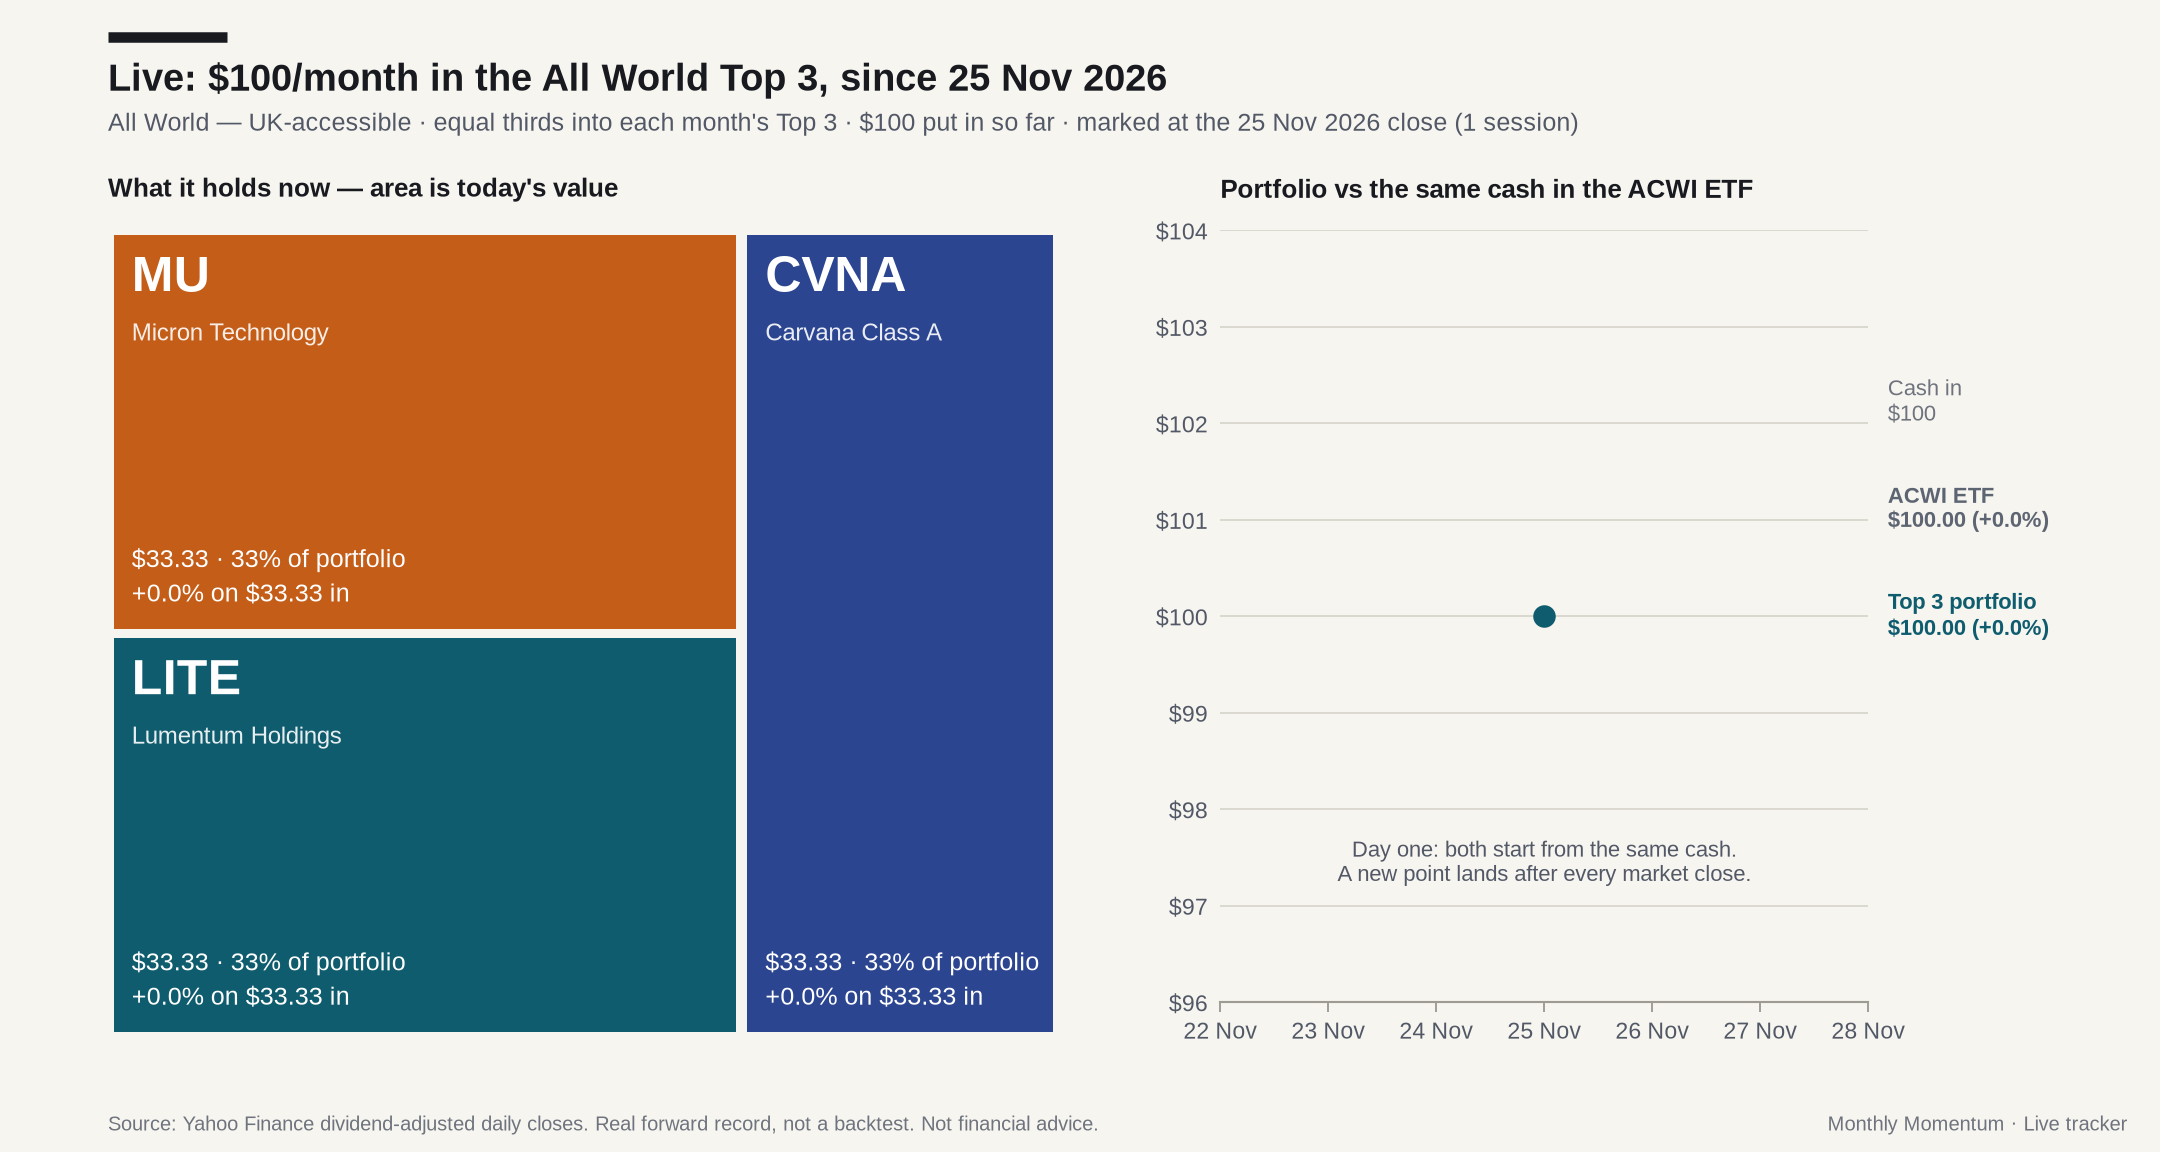
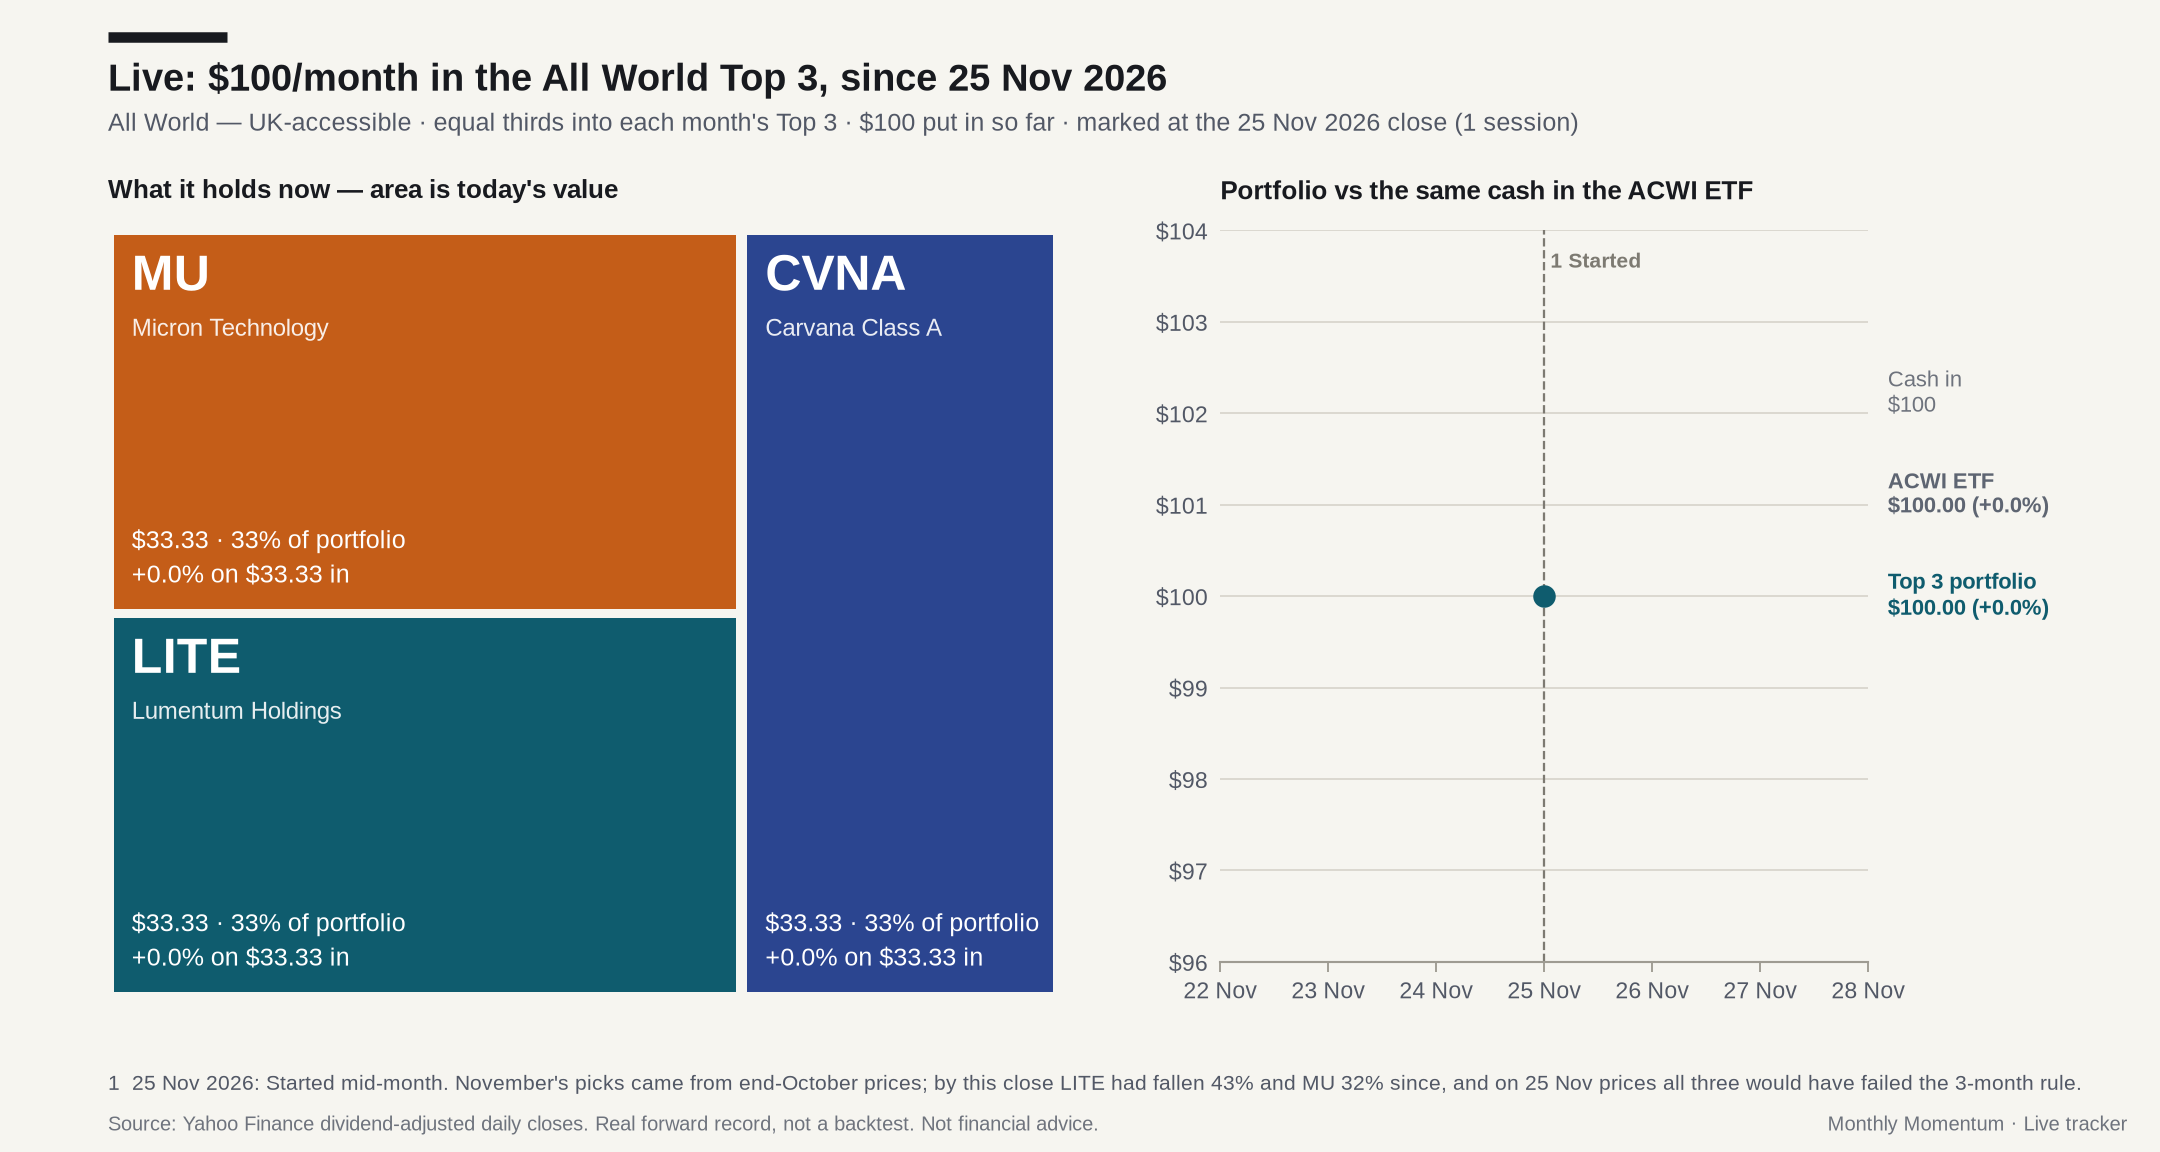
Mark the live portfolio's mid-month start and explain release notifications
The live tracker supports dated notes (data/live/tracker.json "notes"), drawn
as a marker on the chart with a footnote. The first one records that the
portfolio started on 25 Nov, after November's picks had already fallen
sharply. The README picks section now explains how to watch releases.

diff --git a/src/monthly_momentum/chart.py b/src/monthly_momentum/chart.py
@@ -1576,7 +1576,9 @@ def generate_live_tracker_chart(tracker: Any, series: Any, output_path: Path) ->
     )
 
     # ---- Left: treemap of current holdings (area = value today) ----
-    ax_t = fig.add_axes((0.05, 0.10, 0.44, 0.70))
+    notes = [n for n in getattr(tracker, "notes", []) if n.get("text")]
+    lift = 0.035 * len(notes)
+    ax_t = fig.add_axes((0.05, 0.10 + lift, 0.44, 0.70 - lift))
     ax_t.set_xlim(0, 1)
     ax_t.set_ylim(0, 1)
     ax_t.axis("off")
@@ -1646,7 +1648,7 @@ def generate_live_tracker_chart(tracker: Any, series: Any, output_path: Path) ->
         )
 
     # ---- Right: portfolio vs benchmark, same cash ----
-    ax = fig.add_axes((0.565, 0.13, 0.30, 0.67))
+    ax = fig.add_axes((0.565, 0.13 + lift, 0.30, 0.67 - lift))
     _style_editorial_axis(ax)
     dates = [p.date for p in pts]
     totals = [p.total for p in pts]
@@ -1690,16 +1692,18 @@ def generate_live_tracker_chart(tracker: Any, series: Any, output_path: Path) ->
         ax.set_xlim(dates[0] - timedelta(days=3), dates[0] + timedelta(days=3))
         ax.xaxis.set_major_locator(mdates.DayLocator())
         ax.xaxis.set_major_formatter(mdates.DateFormatter("%-d %b"))
-        ax.text(
-            0.5,
-            0.18,
-            "Day one: both start from the same cash.\nA new point lands after every market close.",
-            transform=ax.transAxes,
-            ha="center",
-            va="center",
-            fontsize=8.8,
-            color=INK_SUB,
-        )
+        if not notes:
+            ax.text(
+                0.5,
+                0.18,
+                "Day one: both start from the same cash.\n"
+                "A new point lands after every market close.",
+                transform=ax.transAxes,
+                ha="center",
+                va="center",
+                fontsize=8.8,
+                color=INK_SUB,
+            )
     elif span <= 92:
         ax.set_xlim(dates[0] - timedelta(days=1), dates[-1] + timedelta(days=1))
         ax.xaxis.set_major_locator(mdates.AutoDateLocator(minticks=3, maxticks=7))
@@ -1750,6 +1754,36 @@ def generate_live_tracker_chart(tracker: Any, series: Any, output_path: Path) ->
             color=c,
             fontweight="bold" if c != INK_MUTED else "normal",
             linespacing=1.25,
+        )
+
+    for k, note in enumerate(notes):
+        try:
+            note_day = date.fromisoformat(note["date"])
+        except (KeyError, ValueError):
+            continue
+        marker = str(k + 1)
+        if dates[0] <= note_day <= dates[-1]:
+            note_x = float(mdates.date2num(note_day))
+            ax.axvline(note_x, color=EVENT_COLOR, linestyle="--", linewidth=0.9, zorder=1)
+            ax.text(
+                note_x,
+                0.97,
+                f" {marker} {note.get('label', '')}".rstrip(),
+                transform=ax.get_xaxis_transform(),
+                ha="left",
+                va="top",
+                fontsize=8.4,
+                fontweight="bold",
+                color=EVENT_COLOR,
+            )
+        fig.text(
+            0.05,
+            0.05 + 0.035 * (len(notes) - 1 - k),
+            f"{marker}  {note_day:%-d %b %Y}: {note['text']}",
+            ha="left",
+            va="bottom",
+            fontsize=8.6,
+            color=INK_SUB,
         )
 
     fig.savefig(output_path, dpi=180, facecolor=PAPER_BG)

diff --git a/src/monthly_momentum/tracker.py b/src/monthly_momentum/tracker.py
@@ -57,6 +57,8 @@ class LiveTracker:
     names: dict[str, str] = field(default_factory=dict)
     buys: list[LiveBuy] = field(default_factory=list)
     pending: dict[str, Any] | None = None
+    # Dated context shown on the chart, e.g. why the start date matters.
+    notes: list[dict[str, str]] = field(default_factory=list)
 
     @property
     def tickers(self) -> list[str]:
@@ -124,6 +126,7 @@ def load_tracker(path: Path) -> LiveTracker:
             for b in raw.get("buys", [])
         ],
         pending=raw.get("pending"),
+        notes=list(raw.get("notes", [])),
     )
 
 
@@ -145,6 +148,7 @@ def save_tracker(tracker: LiveTracker, path: Path) -> None:
             for b in tracker.buys
         ],
         "pending": tracker.pending,
+        "notes": tracker.notes,
     }
     path.parent.mkdir(parents=True, exist_ok=True)
     path.write_text(json.dumps(payload, indent=2, ensure_ascii=False) + "\n", encoding="utf-8")

diff --git a/src/monthly_momentum/report.py b/src/monthly_momentum/report.py
@@ -623,8 +623,13 @@ def _render_picks_overview(
     lines.extend(
         [
             "",
-            "[Rankings and returns](docs/report.md#latest-pick-details) · New picks are "
-            "published as [GitHub releases](../../releases) on the 1st.",
+            "[Rankings and returns](docs/report.md#latest-pick-details)",
+            "",
+            "**Get each month's picks by email:** at the top of the repo page, click "
+            "**Watch → Custom**, tick **Releases**, then **Apply**. GitHub sends one notification "
+            "when new picks are published on the 1st; the daily live-tracker updates don't "
+            "notify. For a feed reader, use "
+            "[releases.atom](https://github.com/alastairherd/monthly-momentum/releases.atom).",
             "",
         ]
     )

diff --git a/README.md b/README.md
@@ -16,7 +16,7 @@ So I kept the part that worked, buying winners, and dropped nearly all the selli
 - The backtests below fell 47–66% at their worst.
 - Data outside the US still leaves out companies that failed.
 
-That's why it is a slice of my ISA next to a tracker rather than the whole thing, and why the [live portfolio](#live-portfolio) starts from the day I began. Not financial advice.
+That's why it is a slice of my ISA next to a tracker rather than the whole thing, and why the [live portfolio](#live-portfolio) starts from the day I began. That day turned out to be mid-month, right after the November picks had fallen hard; the live chart marks it. Not financial advice.
 
 <!-- AUTO-GENERATED:START -->
 
@@ -32,7 +32,9 @@ That's why it is a slice of my ISA next to a tracker rather than the whole thing
 | UK FTSE 100 | 2026-11 | **BGEO.L**, **PCT.L**, **SMT.L** |
 | All World — Full ACWI | 2026-11 | **LITE**, **2059.TW**, **MU** |
 
-[Rankings and returns](docs/report.md#latest-pick-details) · New picks are published as [GitHub releases](../../releases) on the 1st.
+[Rankings and returns](docs/report.md#latest-pick-details)
+
+**Get each month's picks by email:** at the top of the repo page, click **Watch → Custom**, tick **Releases**, then **Apply**. GitHub sends one notification when new picks are published on the 1st; the daily live-tracker updates don't notify. For a feed reader, use [releases.atom](https://github.com/alastairherd/monthly-momentum/releases.atom).
 
 ## Live portfolio
 
